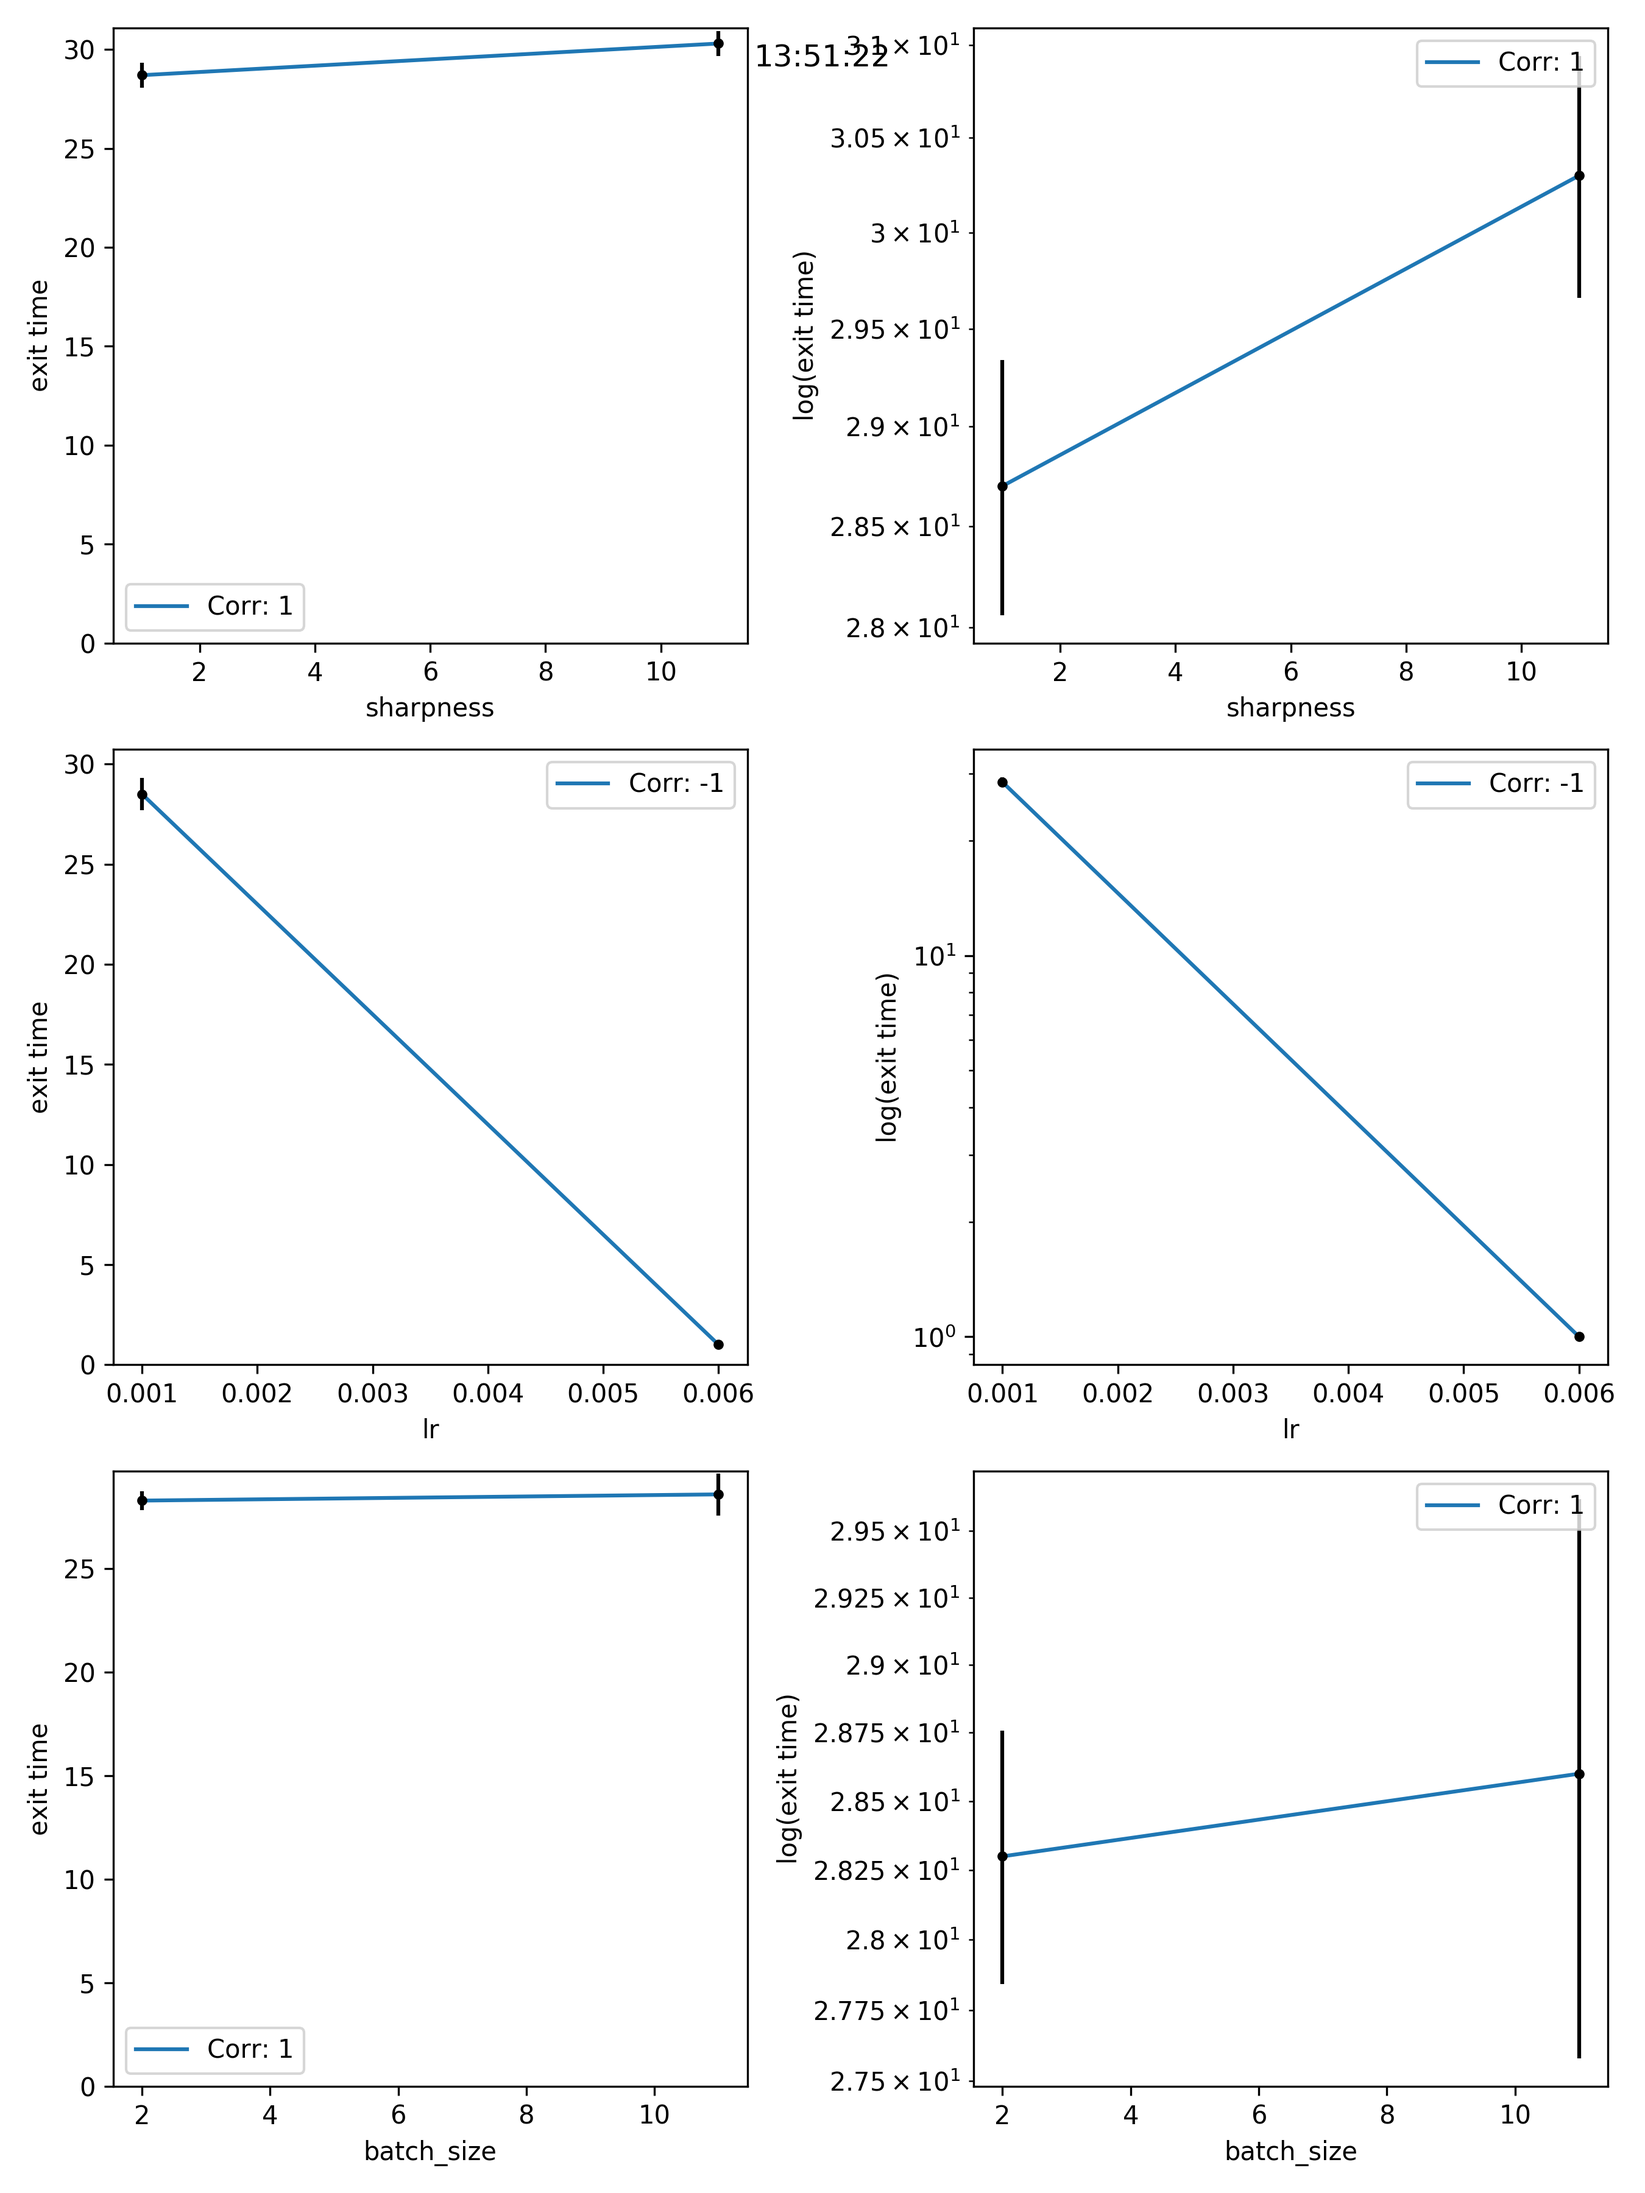
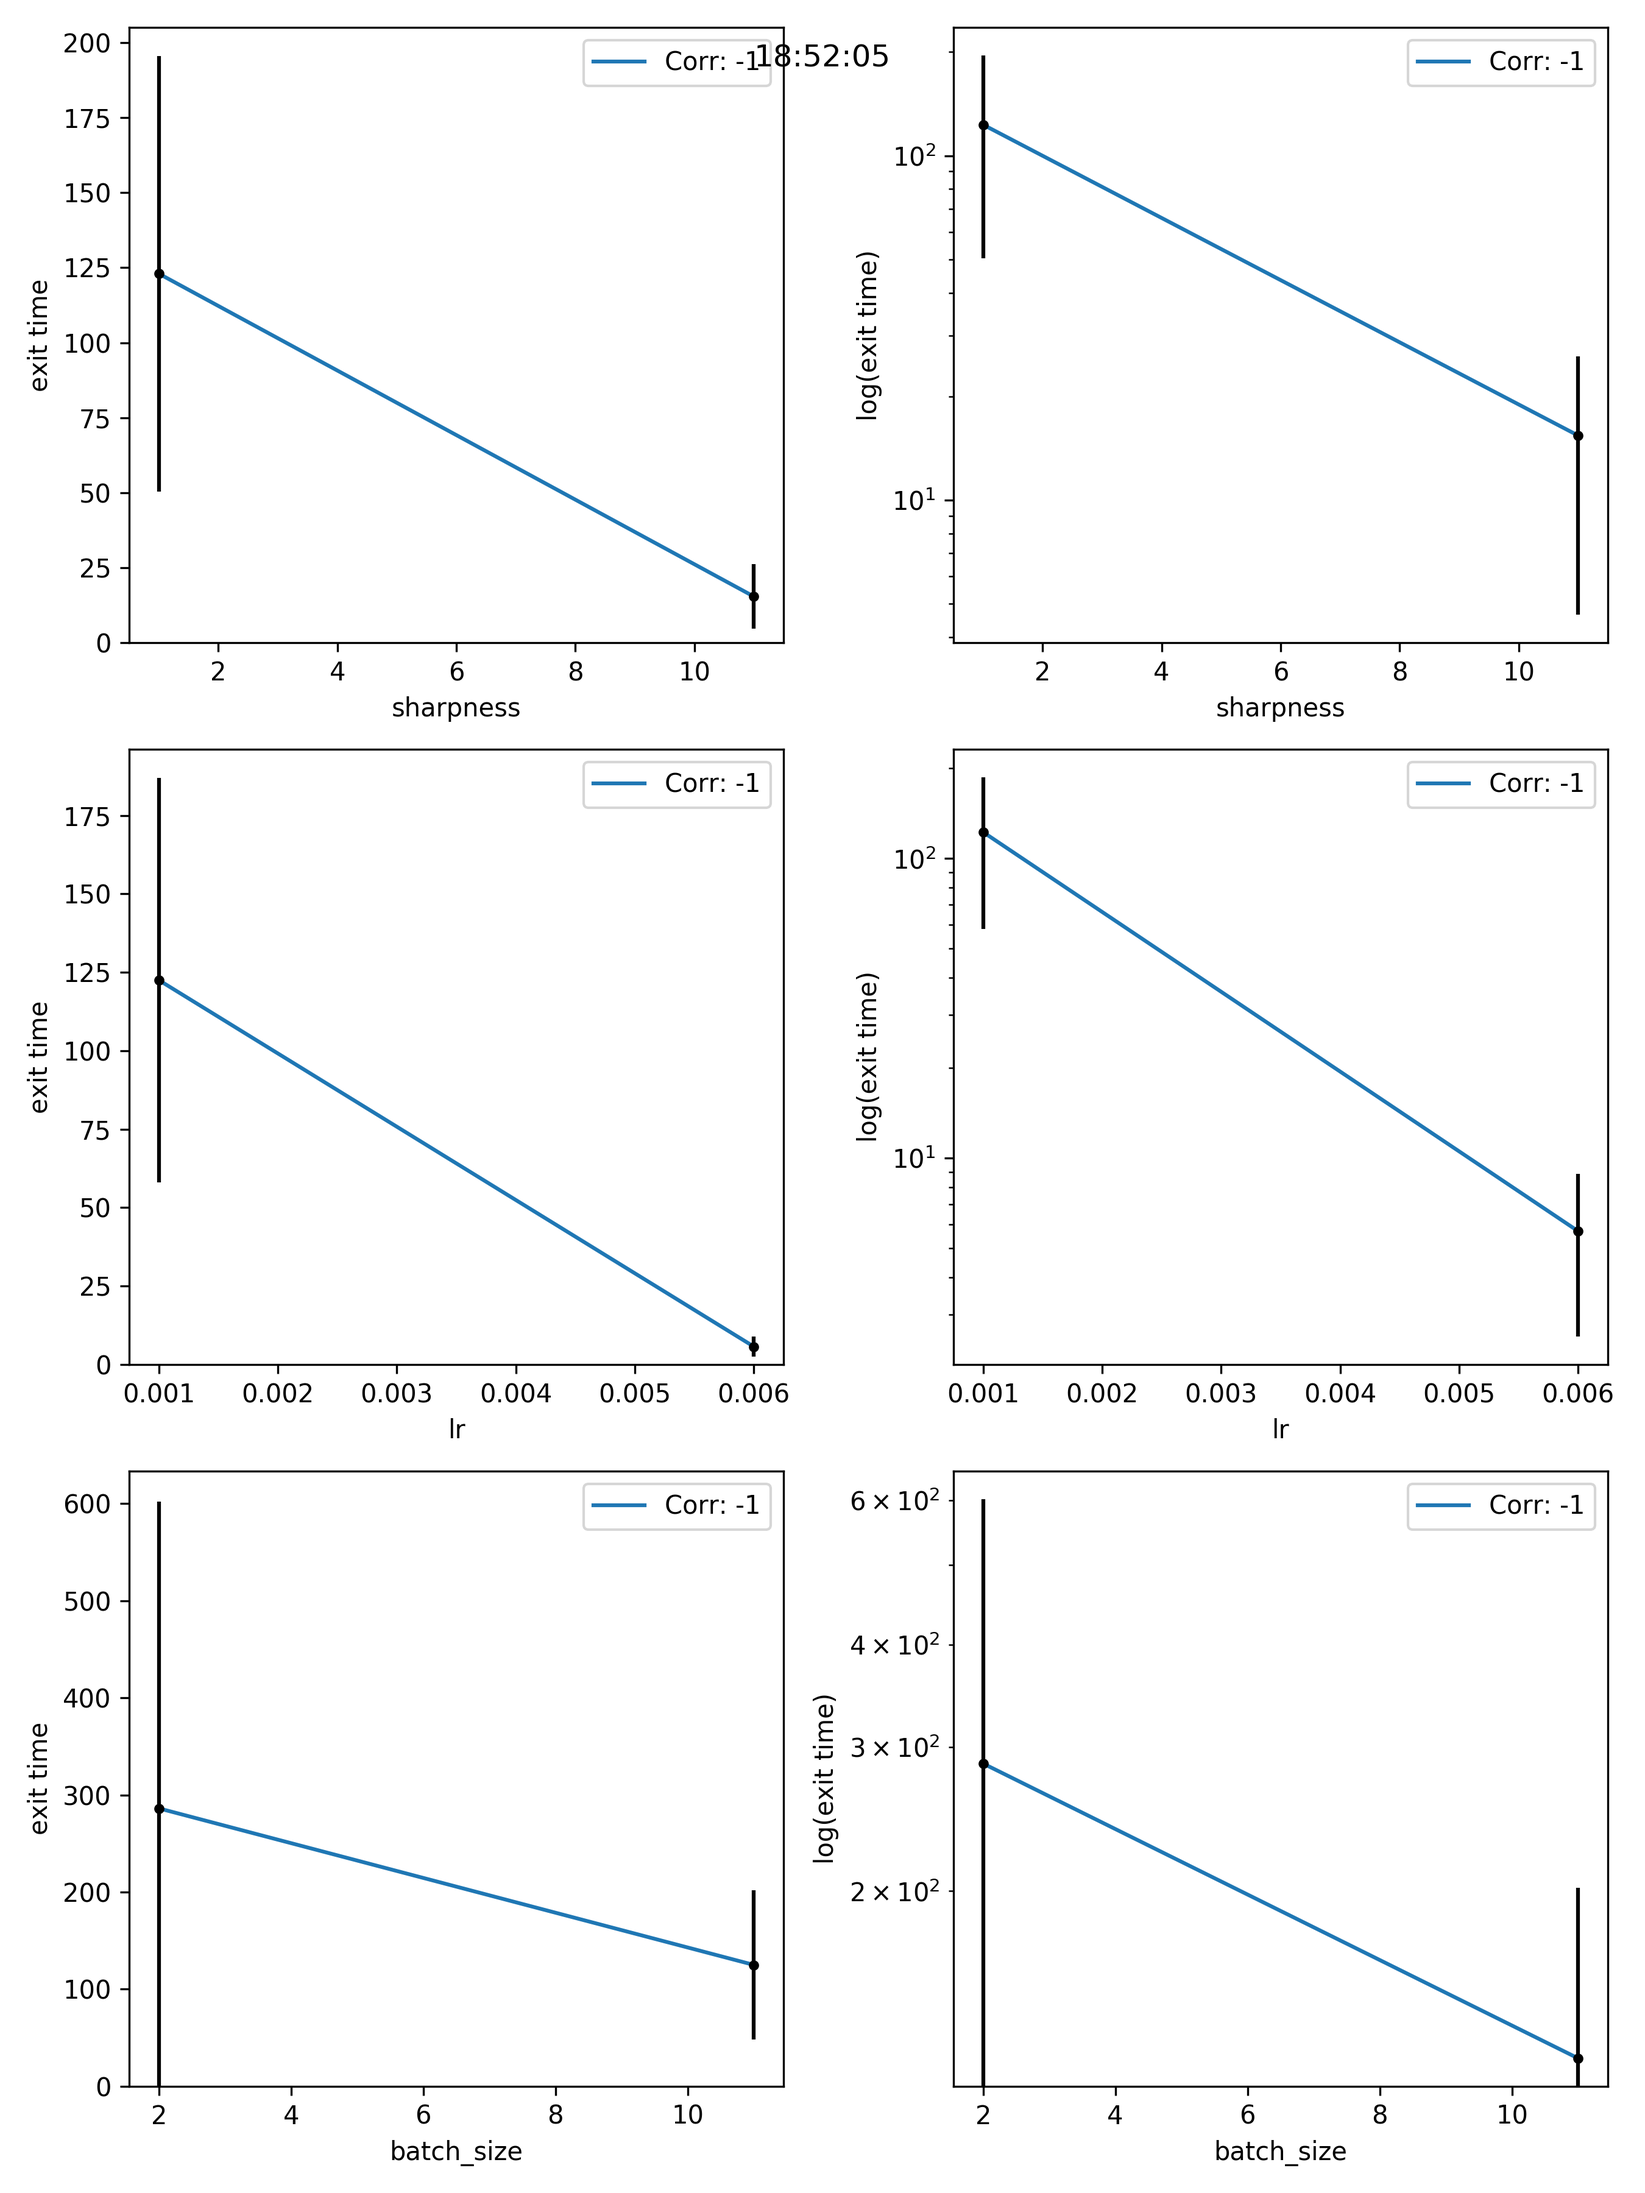
update

diff --git a/stationary.py b/stationary.py
@@ -52,9 +52,6 @@ def get_lr_vs_exit_time(config, comm):
                                             config['sharpness_min'],
                                             config['batch_size_min'])
             sample_id += comm_size
-            if rank == 0:
-                report(sample_id)
-                print(end="", flush=True)
         comm.Barrier()
         if rank==0:
             total = np.zeros_like(data) 
@@ -185,13 +182,18 @@ def main():
     # config['model'] = 'styblinski_tang_func'
     config['model']   = 'MLP'
 
-    # config['exit_trial_num'] = 10 
-    # config['interval_sample'] = 2 
     #
-    set_device(config)
     comm = MPI.COMM_WORLD
     comm_size = comm.Get_size()
     rank = comm.Get_rank()
+
+    if sys.argv[1] == "sanity_check":
+        config['exit_trial_num'] = 10 
+        config['interval_sample'] = 2 
+        if rank == 0:
+            report("Runnig Sanity Check")
+            print(end="", flush=True)
+    set_device(config)
     #
     global dataset 
     dataset = get_dataset(config)
@@ -203,10 +205,19 @@ def main():
             torch.save(model.state_dict(), "./MLP_init_params.pt")
     #
     # Sharpess
+    if rank == 0:
+        report("Sharpness Analysis Started")
+        print( end="", flush=True)
     sharpness_results  = get_sharpness_vs_exit_time(config, comm)
     # Learning ratae
+    if rank == 0:
+        report("LR Analysis Started")
+        print(end="", flush=True)
     lr_results         = get_lr_vs_exit_time(config, comm)
     # batchsize
+    if rank == 0:
+        report("Batch Sizse Analysis Started")
+        print(end="", flush=True)
     batch_size_results = get_batch_size_vs_exit_time(config, comm)
     if rank == 0: draw(sharpness_results, lr_results, batch_size_results)
     

diff --git a/exit_time.py b/exit_time.py
@@ -19,7 +19,8 @@ def get_exit_time(config, lr, sharpness, batch_size):
         return distance.item()
 
     exit_time = 0
-    while(distance(init_model, model) < config['r']):
+    # while(distance(init_model, model) < config['r']):
+    while(model(dataset.train.x) - init_model(dataset.train.x) < config['r']):
         if config["optim"] == "SGD":
             data_size = dataset.train.x.size()[0]
             shuffled_data = dataset.train.x[torch.randperm(data_size)]
@@ -168,7 +169,7 @@ def main():
     config['num_dim'] = 100
     config['sharpness_min'] = 1
     config['sharpness_interval'] = 10 
-    config['r'] = 0.8 
+    config['r'] = 0.001 
     config['lr_min'] = 0.001
     config['lr_interval'] = 0.005 
     config['batch_size_min'] = 2 
@@ -183,17 +184,17 @@ def main():
     config['model']   = 'MLP'
 
     #
-    set_device(config)
     comm = MPI.COMM_WORLD
     comm_size = comm.Get_size()
     rank = comm.Get_rank()
 
-    if sys.argv[1] == "sanity_check":
+    if len(sys.argv) > 1 and sys.argv[1] == "sanity_check":
         config['exit_trial_num'] = 10 
         config['interval_sample'] = 2 
         if rank == 0:
             report("Runnig Sanity Check")
             print(end="", flush=True)
+    set_device(config)
     #
     global dataset 
     dataset = get_dataset(config)
